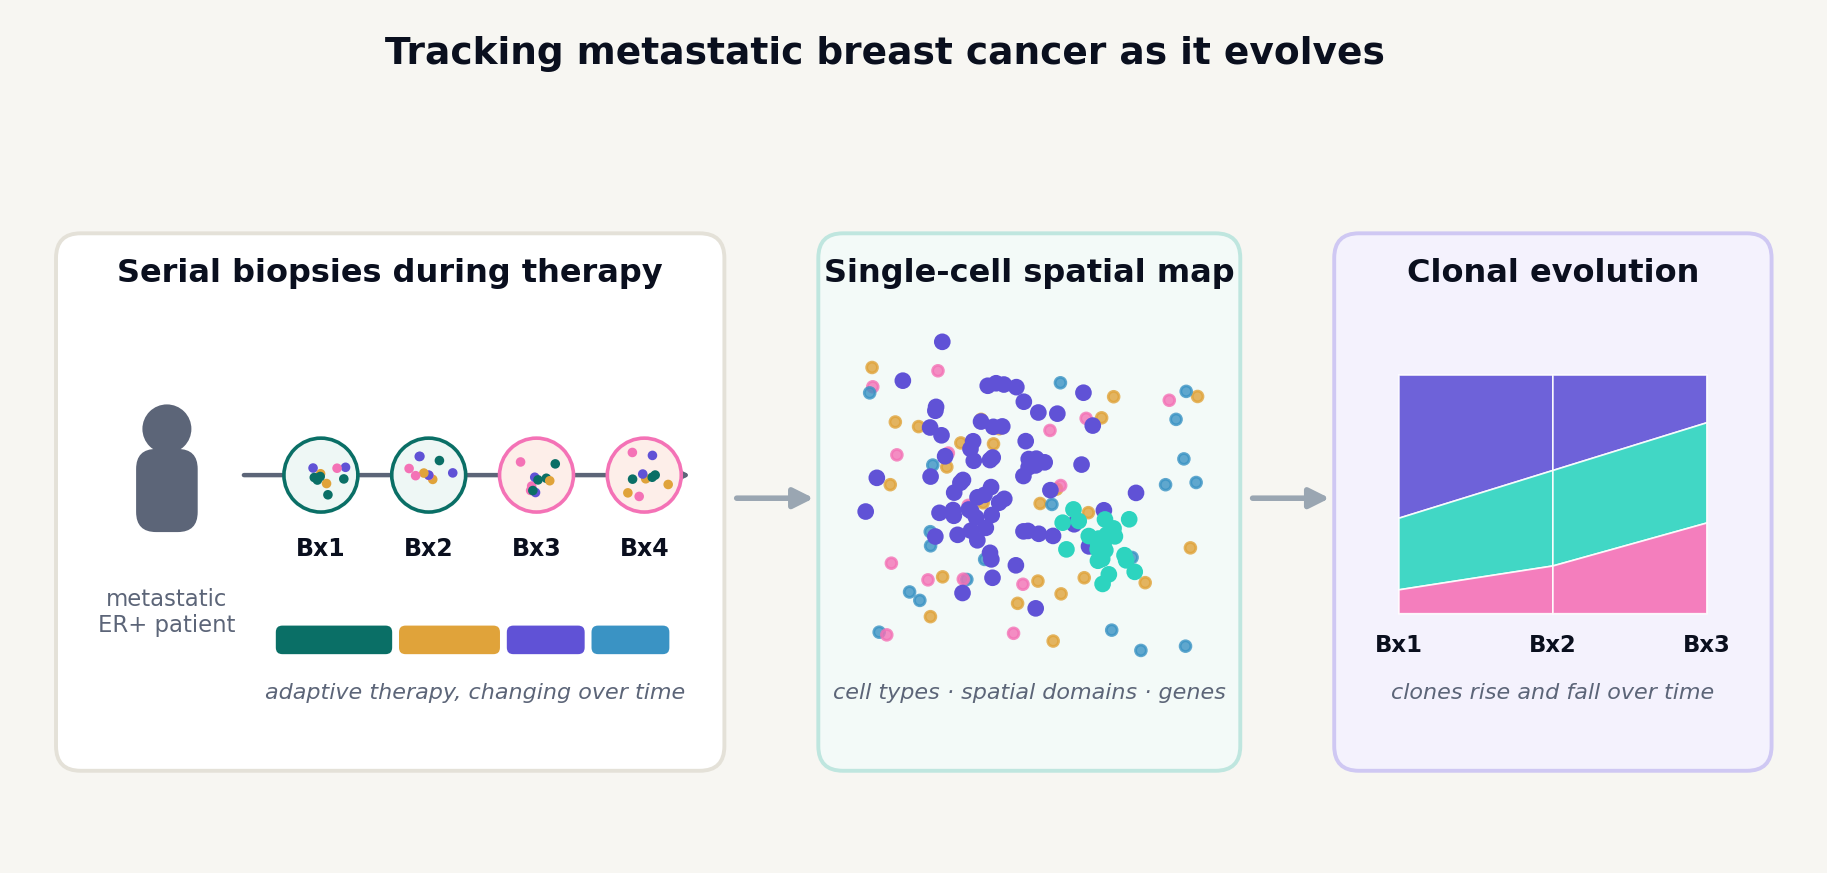
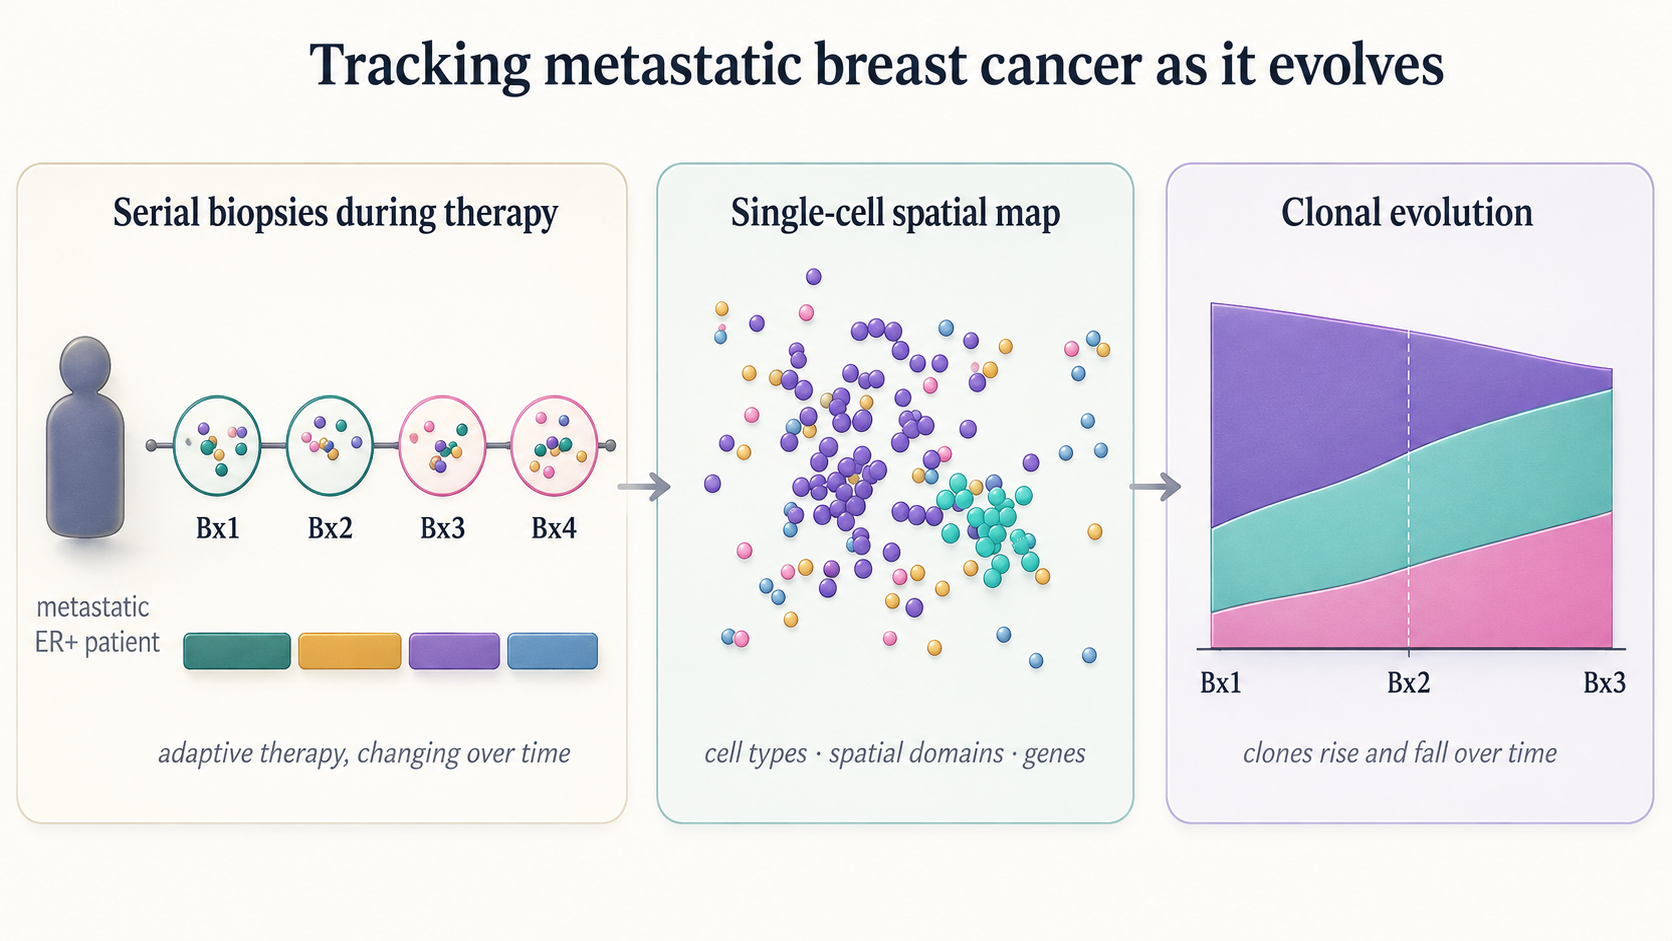
Simplify research page: trim lede, RIME note, and project card meta
- Remove the intro subtext under "What we're working on now"
- Shorten the RIME info box closing note to a linked "Reach out" line
- Drop the per-project Lead/Leads line from project cards
- Swap the metastatic breast cancer schematic for a new figure

Claude-Session: https://claude.ai/code/session_01RRjX5hA3bCmWRXQWhBRJb9

diff --git a/js/projects.js b/js/projects.js
@@ -58,7 +58,7 @@
         },
         {
           kind: "note",
-          html: '<strong>Working with us.</strong> RIME is also offered commercially as a service (for example by <a href="https://www.activemotif.com/catalog/1077/rime" target="_blank" rel="noopener">Active Motif</a>). Our role is different: we collaborate, helping labs design the experiment, choose and validate antibodies, set the method up in their own hands, and read it against the matched binding data. If RIME fits a question you are working on, <a href="contact.html">get in touch</a>.'
+          html: '<a href="contact.html">Reach out</a> if you have questions about RIME or are interested in working with us.'
         }
       ],
       leads: [{ name: "Hisham Mohammed", anchor: "hisham" }],
@@ -198,8 +198,6 @@
 
   function metaRow(p) {
     var parts = [];
-    if (p.leads && p.leads.length) parts.push("<span><b>" + (p.leads.length > 1 ? "Leads" : "Lead") + "</b> " +
-      p.leads.map(function (l) { return l.anchor ? '<a href="team.html#' + esc(l.anchor) + '">' + esc(l.name) + "</a>" : esc(l.name); }).join(", ") + "</span>");
     if (p.methods && p.methods.length) parts.push("<span><b>Methods</b> " +
       p.methods.map(function (m) { return m.anchor ? '<a href="research.html#' + esc(m.anchor) + '">' + esc(m.label) + "</a>" : esc(m.label); }).join(", ") + "</span>");
     if (p.refs && p.refs.length) parts.push("<span><b>Related</b> " +

diff --git a/research.html b/research.html
@@ -122,7 +122,6 @@
       <div class="container container--wide">
         <div class="section-head reveal">
           <h2 class="section-title">What we're working on now</h2>
-          <p class="section-lede">A look at active projects and the data behind them. Some pieces are interactive: hover and click to explore. Updated as the work develops.</p>
         </div>
         <div class="projects" id="project-list"></div>
         <noscript>
